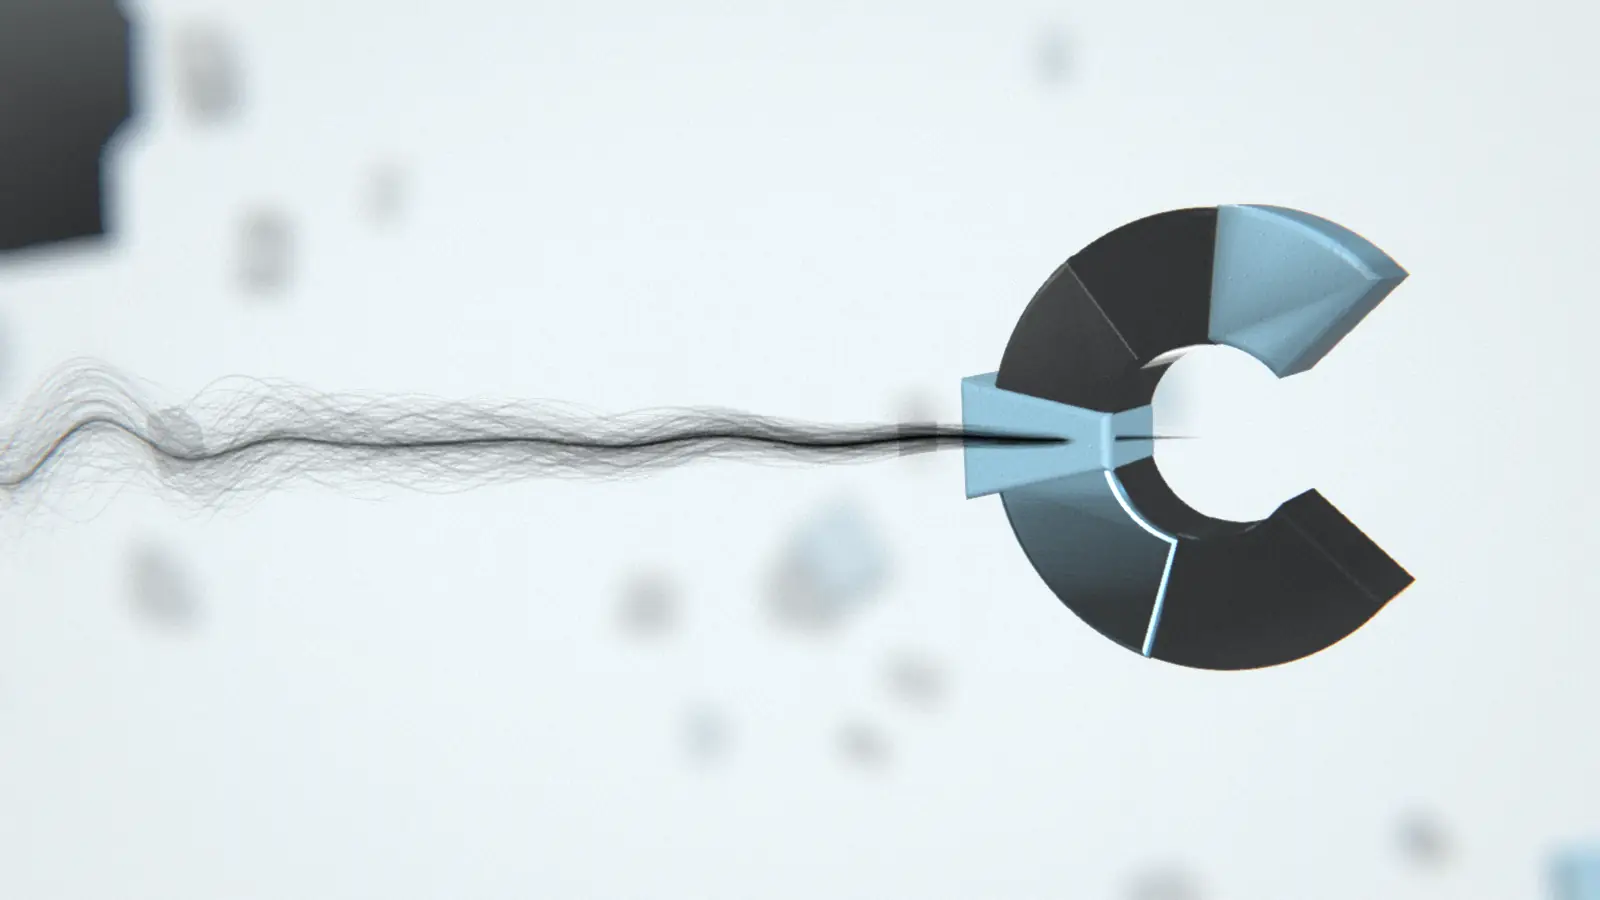
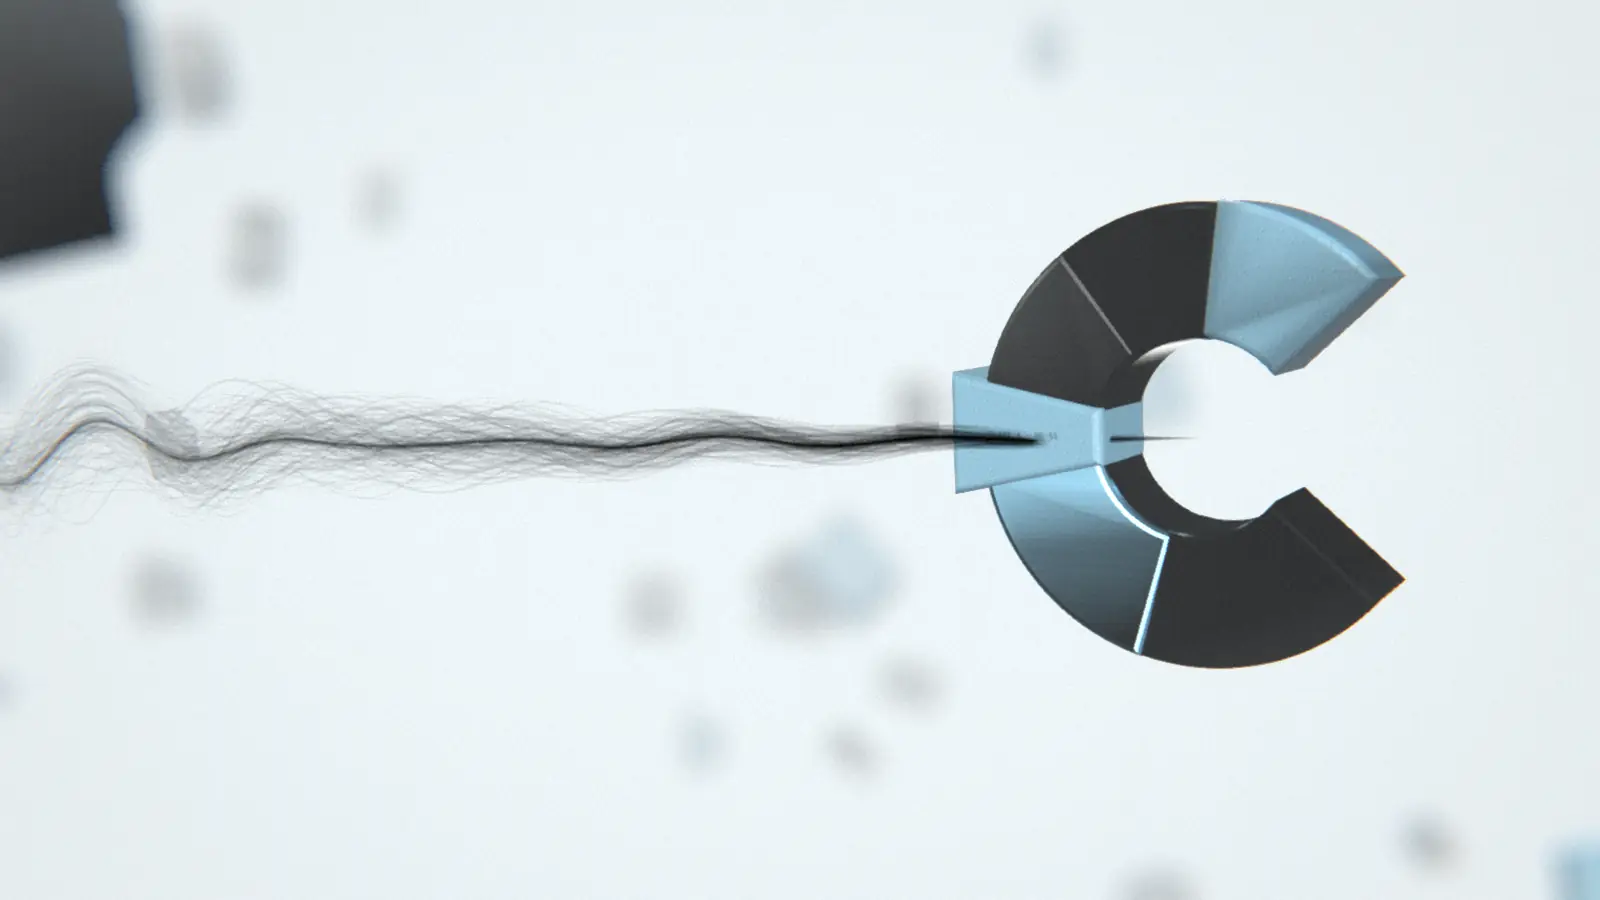
Página v4

diff --git a/nave.js b/nave.js
@@ -420,8 +420,9 @@ function campoLejano(onix, candy, cuantas) {
   const mO = new T.InstancedMesh(geo, onix, resto.length), mC = new T.InstancedMesh(geo, candy, deCandy.length);
   const g = new T.Group(); g.add(mO, mC);
   const m4 = new T.Matrix4(), q = new T.Quaternion(), e = new T.Euler(), v = new T.Vector3(), esc = new T.Vector3();
-  g.userData.poner = (t) => {
+  g.userData.poner = (t, cuanto = 1) => {
     [[mO, resto], [mC, deCandy]].forEach(([malla, ls]) => {
+      malla.count = Math.round(ls.length * Math.min(1, Math.max(0, cuanto)));
       ls.forEach((l, i) => {
         v.set(l.p.x + vaiven(t, l.semilla, 0.031) * 0.6, l.p.y + vaiven(t, l.semilla + 1, 0.027) * 0.5, l.p.z);
         e.set(l.rot.x + t * l.vel.x, l.rot.y + t * l.vel.y + vaiven(t, l.semilla + 2, 0.05) * 0.4, l.rot.z + t * l.vel.z); q.setFromEuler(e);
@@ -462,7 +463,9 @@ function ruido1(x, s) {
   const h = (n) => { const v = Math.sin((n + s * 57.31) * 127.13) * 43758.5453; return v - Math.floor(v); };
   return h(i) * (1 - u) + h(i + 1) * u;
 }
-function vaiven(t, s, f) { return (ruido1(t * f, s) * 2 - 1) * 0.65 + (ruido1(t * f * 2.137, s + 9.1) * 2 - 1) * 0.35; }
+function vaiven(t, s, f) {
+  return (ruido1(t * f, s) * 2 - 1) * 0.5 + (ruido1(t * f * 2.137 + 3.3, s + 9.1) * 2 - 1) * 0.3 + (ruido1(t * f * 0.6180 + 7.7, s + 4.4) * 2 - 1) * 0.35;
+}
 /* La grilla: luz de ventana en la pared del fondo (paños con bordes blandos, en diagonal) y la
    sombra de hojas que se mueve despacio sobre ellos */
 function ventana() {
@@ -496,10 +499,10 @@ function ventana() {
 // lo que no se dice en un estado vale lo de acá: luz clave normal desde la izquierda, cámara en su lugar
 const LUZ_BLANCA = new T.Color(0xd8e9f0), LUZ_CANDY = new T.Color(CANDY);
 const BASE = { abre: 0, clave: 0, orden: 1, latido: 0, tinta: 1, haz: 1, campo: 0, papel: 0, ventana: 0,
-  expo: 1, luz: 1, luzX: -4.5, temp: 0, cx: 0, cy: 0, cz: 0, cerca: 1 };
+  expo: 1, luz: 1, luzX: -4.5, temp: 0, cx: 0, cy: 0, cz: 0, cerca: 1, lejos: 0.25 };
 const ESTADOS = [
   // 0 portada: la C a la derecha, bruma + haz + hilos entrando ordenados
-  { p: [1.75, 0.3, 0], g: [0.16, -0.58, 0.04], e: 0.95 },
+  { p: [1.75, 0.3, 0], g: [0.16, -0.58, 0.04], e: 0.95, lejos: 1 },
   // 1 el cronograma: la C chica arriba; al fondo, el calendario de dovelas (los días de clase en Candy); luz desde la derecha
   { p: [4.8, 3.0, -10.5], g: [0.4, -0.9, 0.1], e: 0.9, orden: 0.6, tinta: 0.2, haz: 0.12, campo: 1, luz: 0.85, luzX: 4.5, temp: 0.3, cx: -0.6, cy: 0.3, expo: 0.95 },
   // 2 grabar: la voz es la protagonista: el haz y las motas, los hilos llegan dispersos; la C se aleja arriba
@@ -515,9 +518,9 @@ const ESTADOS = [
   // 7 todo lo demás (la grilla): luz de ventana en la pared del fondo, la C lejos a la derecha, casi sin bruma
   { p: [6.5, -1.6, -16.0], g: [0.3, -1.1, 0.2], e: 1.0, abre: 0.2, tinta: 0.05, haz: 0, ventana: 1, luz: 0.7, luzX: 5, temp: 0.4, cx: 0.3, cy: 0.4 },
   // 8 descargar: la cámara llega a la C: el ojo enmarca la caja como un portal
-  { p: [0.0, 0.05, -1.05], g: [0.04, -0.16, 0.0], e: 4.3, tinta: 0.8, haz: 0.5, cerca: 0 },
+  { p: [0.0, 0.05, -1.05], g: [0.04, -0.16, 0.0], e: 4.3, tinta: 0.8, haz: 0.5, cerca: 0, lejos: 0.5 },
   // 9 pie: la cámara ya pasó por el ojo; el aro queda atrás, en los bordes
-  { p: [0.0, 0.05, -1.05], g: [0.02, -0.08, 0.0], e: 8.0, tinta: 0.6, haz: 0.4, cerca: 0 },
+  { p: [0.0, 0.05, -1.05], g: [0.02, -0.08, 0.0], e: 8.0, tinta: 0.6, haz: 0.4, cerca: 0, lejos: 0.5 },
 ].map((e) => ({ ...BASE, ...e }));
 const CANALES = Object.keys(BASE);
 
@@ -647,7 +650,9 @@ export async function iniciar(lienzo, opciones = {}) {
   /* los fondos por sección: el calendario de dovelas, el papel de los renglones, la luz de ventana */
   const campo = campoDeDovelas(materialOnix(3), materialCeramicaCandy());
   campo.position.set(3.4, -2.5, -8.0); campo.visible = false; escena.add(campo);
-  const elPapel = estante(materialOnix(7), materialAnodizado()); elPapel.position.set(2.6, -0.4, -6.0); elPapel.rotation.y = -0.35; elPapel.visible = false; escena.add(elPapel);
+  const onixEstante = materialOnix(7), titanioEstante = materialAnodizado();
+  onixEstante.envMapIntensity = 0.35; titanioEstante.envMapIntensity = 0.3; titanioEstante.color.multiplyScalar(0.55);   // las caras planas no espejan el softbox
+  const elPapel = estante(onixEstante, titanioEstante); elPapel.position.set(2.6, -0.4, -6.0); elPapel.rotation.y = -0.75; elPapel.visible = false; escena.add(elPapel);
   const laVentana = ventana(); laVentana.position.set(-2.0, 0.6, -7.0); laVentana.visible = false; escena.add(laVentana);
 
   /* la luz: una clave suave, el borde Candy, relleno mínimo; las sombras con color (el entorno) */
@@ -912,7 +917,7 @@ export async function iniciar(lienzo, opciones = {}) {
     // cinco planos con parallax distinto al puntero y al scroll: tinta, haz, C, hilos, motas
     const desp = (scrollSuave / Math.max(window.innerHeight, 1));
     const px = puntero.sx, py = puntero.sy;
-    lejano.userData.poner(t);
+    lejano.userData.poner(t, actual.lejos);
     lejano.position.set(-px * 0.25, py * 0.12 + desp * 0.15, 0);
     cercanos.children.forEach((m, i) => {
       m.position.set(m.userData.base.x + px * 0.12 + vaiven(t, 60 + i, 0.07) * 0.05, m.userData.base.y - py * 0.08 + vaiven(t, 70 + i, 0.06) * 0.04, m.userData.base.z);

diff --git a/pagina.js b/pagina.js
@@ -59,20 +59,83 @@ document.querySelectorAll(".palabras").forEach((el) => {
   });
 });
 
-/* ══════════════════════ las entradas ══════════════════════ */
+/* ══════════════════════ las transiciones atadas al scroll ══════════════════════ */
+/* Ningún texto aparece de golpe: cada título, párrafo, etiqueta, botón, tarjeta e imagen tiene un
+   valor --v (0 a 1) que sigue a su posición en la pantalla con la curva de la casa. Entra desde
+   abajo (de desenfocado a nítido, con un desplazamiento corto; los títulos por máscara y palabra
+   por palabra; las imágenes con zoom lento y revelado) y sale igual, en espejo, cuando se va por
+   arriba. Con «reducir movimiento» todo queda puesto desde el principio. */
+const TIPOS = [
+  [".tramo .titular, .todo .titular, .descargar .titular", "rev-mascara"],
+  [".tramo .paso-num, .tramo-bajada, .datos li, .nota-al-pie, .todo .rotulo, .todo .tramo-bajada, .descargar-caja > :not(.titular), .pie > *", "rev-texto"],
+  [".demo, .tarjeta", "rev-panel"],
+  [".profundidad", "rev-imagen"],
+];
+const revelables = [];
+TIPOS.forEach(([sel, clase]) => document.querySelectorAll(sel).forEach((el) => {
+  if (el.dataset.rev !== undefined) return;
+  el.dataset.rev = ""; el.classList.add(clase); revelables.push(el);
+}));
+// la portada ya entra con la apertura: sólo sale, en espejo, al bajar
+document.querySelectorAll("#portada .portada-caja, #portada .bajar").forEach((el) => { el.dataset.rev = "salida"; el.classList.add("rev-salida"); revelables.push(el); });
+const curva = (x) => { const t = Math.min(1, Math.max(0, x)); return 1 - Math.pow(1 - t, 3); };
+if (quieto || !("IntersectionObserver" in window)) {
+  revelables.forEach((el) => el.style.setProperty("--v", "1"));
+} else {
+  const activos = new Set();
+  let pedido = 0;
+  const actualizar = () => {
+    pedido = 0;
+    const vh = window.innerHeight;
+    activos.forEach((el) => {
+      const r = el.getBoundingClientRect();
+      const entra = el.dataset.rev === "salida" ? 1 : curva((vh - r.top) / (vh * 0.3));
+      const sale = curva((r.bottom - vh * 0.04) / (vh * 0.26));
+      el.style.setProperty("--v", Math.min(entra, sale).toFixed(3));
+    });
+  };
+  const pedir = () => { if (!pedido) pedido = requestAnimationFrame(actualizar); };
+  // se observa cada sección (no cada elemento: un título recortado por su máscara no «se ve» y no avisaría)
+  const porSeccion = new Map();
+  revelables.forEach((el) => {
+    if (el.dataset.rev !== "salida") el.style.setProperty("--v", "0");
+    const sec = el.closest("section, footer, header") || el;
+    if (!porSeccion.has(sec)) porSeccion.set(sec, []);
+    porSeccion.get(sec).push(el);
+  });
+  const io = new IntersectionObserver((es) => {
+    es.forEach((e) => porSeccion.get(e.target).forEach((el) => (e.isIntersecting ? activos.add(el) : activos.delete(el))));
+    pedir();
+  }, { rootMargin: "15% 0px 15% 0px" });
+  porSeccion.forEach((_, sec) => io.observe(sec));
+  window.addEventListener("scroll", pedir, { passive: true });
+  window.addEventListener("resize", pedir);
+}
+// los tramos se marcan cuando entran (lo usa la escena y los avisos de la cabecera)
 const observador = "IntersectionObserver" in window ? new IntersectionObserver((entradas) => {
-  for (const e of entradas) {
-    if (e.isIntersecting) { e.target.classList.add("visto"); observador.unobserve(e.target); }
-  }
+  for (const e of entradas) if (e.isIntersecting) { e.target.classList.add("visto"); observador.unobserve(e.target); }
 }, { rootMargin: "0px 0px -12% 0px", threshold: 0.12 }) : null;
-document.querySelectorAll(".sec-cab, .tramo-texto, .demo, .tarjeta, .descargar-caja, .pie").forEach((el) => {
-  el.classList.add("entra");
+document.querySelectorAll(".tramo, .sec-cab").forEach((el) => {
   if (observador && !quieto) observador.observe(el); else el.classList.add("visto");
 });
-// los tramos sólo se marcan (la pieza de adelante de cada pantalla llega cuando el tramo entra)
-document.querySelectorAll(".tramo").forEach((el) => {
-  if (observador && !quieto) observador.observe(el); else el.classList.add("visto");
-});
+
+/* la cabecera dice en qué sección estás (cambia con un fundido corto) */
+const rotuloCab = document.querySelector(".cab-seccion");
+const conNombre = [...document.querySelectorAll("[data-nombre]")];
+if (rotuloCab && conNombre.length) {
+  let actual = "";
+  const cual = () => {
+    const c = window.innerHeight * 0.45;
+    let nombre = "";
+    for (const s of conNombre) { const r = s.getBoundingClientRect(); if (r.top <= c && r.bottom > c) { nombre = s.dataset.nombre; break; } }
+    if (nombre === actual) return;
+    actual = nombre;
+    rotuloCab.classList.add("cambiando");
+    setTimeout(() => { rotuloCab.textContent = nombre; rotuloCab.classList.toggle("vacio", !nombre); rotuloCab.classList.remove("cambiando"); }, quieto ? 0 : 180);
+  };
+  window.addEventListener("scroll", cual, { passive: true });
+  cual();
+}
 
 /* ══════════════════════ la cabecera ══════════════════════ */
 const cabecera = document.querySelector(".cabecera");

diff --git a/index.html b/index.html
@@ -52,6 +52,7 @@
     <svg viewBox="-4 -4 108 108" aria-hidden="true"><path class="sg-c" d="M79.4 82.7A44 44 0 1 1 79.4 17.3L63.4 35.1A20 20 0 1 0 63.4 64.9Z"/><path class="sg-clave" d="M30.7 55.2 7.5 61.4 0.5 50 7.5 38.6 30.7 44.8A20 20 0 0 0 30.7 55.2Z"/></svg>
     <span>Cathedra</span>
   </a>
+  <span class="cab-seccion vacio" aria-hidden="true"></span>
   <nav class="cab-nav" aria-label="Secciones">
     <a href="#cronograma">Cómo funciona</a>
     <a href="#todo">Todo lo que hace</a>
@@ -85,7 +86,7 @@
   </section>
 
   <!-- ═══ 1 · el cronograma ═══ -->
-  <section class="tramo" id="cronograma" data-tramo="1" aria-labelledby="crono-tit">
+  <section class="tramo" id="cronograma" data-nombre="01 · Empezás" data-tramo="1" aria-labelledby="crono-tit">
     <div class="tramo-texto">
       <p class="paso-num">01 · Empezás</p>
       <h2 id="crono-tit" class="titular"><span class="palabras">Empezás con tu cronograma.</span></h2>
@@ -113,7 +114,7 @@
   </section>
 
   <!-- ═══ 2 · subir la clase ═══ -->
-  <section class="tramo tramo-der" id="subir" data-tramo="2" aria-labelledby="subir-tit">
+  <section class="tramo tramo-der" id="subir" data-nombre="02 · Subís" data-tramo="2" aria-labelledby="subir-tit">
     <div class="tramo-texto">
       <p class="paso-num">02 · Subís</p>
       <h2 id="subir-tit" class="titular"><span class="palabras">Subís la clase.</span></h2>
@@ -132,7 +133,7 @@
   </section>
 
   <!-- ═══ 3 · la lee y arma la guía ═══ -->
-  <section class="tramo" id="lee" data-tramo="3" aria-labelledby="lee-tit">
+  <section class="tramo" id="lee" data-nombre="03 · La lee" data-tramo="3" aria-labelledby="lee-tit">
     <div class="tramo-texto">
       <p class="paso-num">03 · La lee</p>
       <h2 id="lee-tit" class="titular"><span class="palabras">Cathedra la lee y arma la guía.</span></h2>
@@ -164,7 +165,7 @@
   </section>
 
   <!-- ═══ 4 · preguntar ═══ -->
-  <section class="tramo tramo-der" id="preguntar" data-tramo="4" aria-labelledby="preg-tit">
+  <section class="tramo tramo-der" id="preguntar" data-nombre="04 · Preguntás" data-tramo="4" aria-labelledby="preg-tit">
     <div class="tramo-texto">
       <p class="paso-num">04 · Preguntás</p>
       <h2 id="preg-tit" class="titular"><span class="palabras">Preguntás, y te contesta con la clase y el minuto.</span></h2>
@@ -188,7 +189,7 @@
   </section>
 
   <!-- ═══ 5 · el simulacro ═══ -->
-  <section class="tramo" id="simulacro" data-tramo="5" aria-labelledby="sim-tit">
+  <section class="tramo" id="simulacro" data-nombre="05 · Rendís" data-tramo="5" aria-labelledby="sim-tit">
     <div class="tramo-texto">
       <p class="paso-num">05 · Rendís</p>
       <h2 id="sim-tit" class="titular"><span class="palabras">Te toma un simulacro con el formato que anunció.</span></h2>
@@ -225,7 +226,7 @@
   </section>
 
   <!-- ═══ 6 · repasar y hoy ═══ -->
-  <section class="tramo tramo-der" id="repaso" data-tramo="6" aria-labelledby="rep-tit">
+  <section class="tramo tramo-der" id="repaso" data-nombre="06 · Repasás" data-tramo="6" aria-labelledby="rep-tit">
     <div class="tramo-texto">
       <p class="paso-num">06 · Repasás</p>
       <h2 id="rep-tit" class="titular"><span class="palabras">Repasás lo que te costó, y «Hoy» te dice qué estudiar.</span></h2>
@@ -239,7 +240,7 @@
   </section>
 
   <!-- ═══ 7 · todo lo demás ═══ -->
-  <section class="todo" id="todo" data-tramo="7" aria-labelledby="todo-tit">
+  <section class="todo" id="todo" data-nombre="Todo lo demás" data-tramo="7" aria-labelledby="todo-tit">
     <header class="sec-cab">
       <p class="rotulo">Y todo lo demás</p>
       <h2 id="todo-tit" class="titular"><span class="palabras">Lo que también hace.</span></h2>
@@ -262,7 +263,7 @@
     </ul>
   </section>
 
-  <section class="descargar" id="descargar" data-tramo="8" aria-labelledby="descargar-tit">
+  <section class="descargar" id="descargar" data-nombre="Descargar" data-tramo="8" aria-labelledby="descargar-tit">
     <div class="descargar-caja">
       <p class="rotulo">Para Windows</p>
       <h2 id="descargar-tit" class="titular"><span class="palabras">Bajala y empezá por la próxima clase.</span></h2>

diff --git a/estilos.css b/estilos.css
@@ -496,7 +496,6 @@ main, .pie { position: relative; z-index: 1; }
 .pf-tira.pf-abajo { bottom: -14%; right: 4%; width: 80%; transform: translateZ(60px); }
 .tramo-der .pf-tira { left: -6%; }
 .tramo-der .pf-tira.pf-abajo { left: 4%; }
-.tramo:not(.visto) .pf-frente { opacity: 0; transform: translateZ(0) translateY(36px); }
 .profundidad .ampliar { z-index: 3; }
 
 /* ── las demos: la interfaz de verdad, con datos de una materia de ejemplo ── */
@@ -920,3 +919,24 @@ main, .pie { position: relative; z-index: 1; }
 /* ── lo que está lejos de la pantalla no se maqueta ni se dibuja hasta acercarse ── */
 .tramo { content-visibility: auto; contain-intrinsic-size: auto 1100px; }
 .todo { content-visibility: auto; contain-intrinsic-size: auto 2300px; }
+
+/* ── las transiciones atadas al scroll (pagina.js pone --v de 0 a 1 según la posición) ── */
+[data-rev] { --v: 1; }
+.rev-texto { opacity: var(--v); transform: translateY(calc((1 - var(--v)) * 28px)); filter: blur(calc((1 - var(--v)) * 6px)); will-change: opacity, transform; }
+.rev-panel { opacity: var(--v); transform: translateY(calc((1 - var(--v)) * 48px)) scale(calc(0.97 + var(--v) * 0.03)); }
+.tarjeta.rev-panel .tj-fondo { scale: calc(1.12 - var(--v) * 0.1); }
+.rev-mascara { clip-path: inset(-0.2em -0.2em calc((1 - var(--v)) * 110%) -0.2em); }
+.rev-mascara .pal > span, .visto .rev-mascara .pal > span {
+  transform: translateY(calc((1 - clamp(0, var(--v) * 1.8 - var(--n) * 0.09, 1)) * 105%)) rotate(calc((1 - clamp(0, var(--v) * 1.8 - var(--n) * 0.09, 1)) * 5deg));
+  transition: none;
+}
+.rev-imagen { opacity: clamp(0, var(--v) * 1.6, 1); }
+.rev-imagen .pf-fondo { clip-path: inset(calc((1 - var(--v)) * 12%) calc((1 - var(--v)) * 6%) round 14px); scale: calc(1.1 - var(--v) * 0.1); transition: none; }
+.rev-imagen .pf-frente { opacity: clamp(0, var(--v) * 1.4 - 0.3, 1); transform: translateZ(90px) translateY(calc((1 - var(--v)) * 60px)); transition: none; }
+.rev-salida { opacity: var(--v); transform: translateY(calc((1 - var(--v)) * -40px)); filter: blur(calc((1 - var(--v)) * 6px)); }
+/* la cabecera dice la sección */
+.cab-seccion { margin-left: 22px; margin-right: auto; font: 500 11.5px/1 var(--mono); letter-spacing: .18em; text-transform: uppercase; color: var(--candy-60); transition: opacity .18s var(--curva), transform .18s var(--curva); }
+.cab-seccion.cambiando { opacity: 0; transform: translateY(-6px); }
+.cab-seccion.vacio { opacity: 0; }
+@media (max-width: 600px) { .cab-seccion { display: none; } }
+.quieto [data-rev] { --v: 1 !important; }
